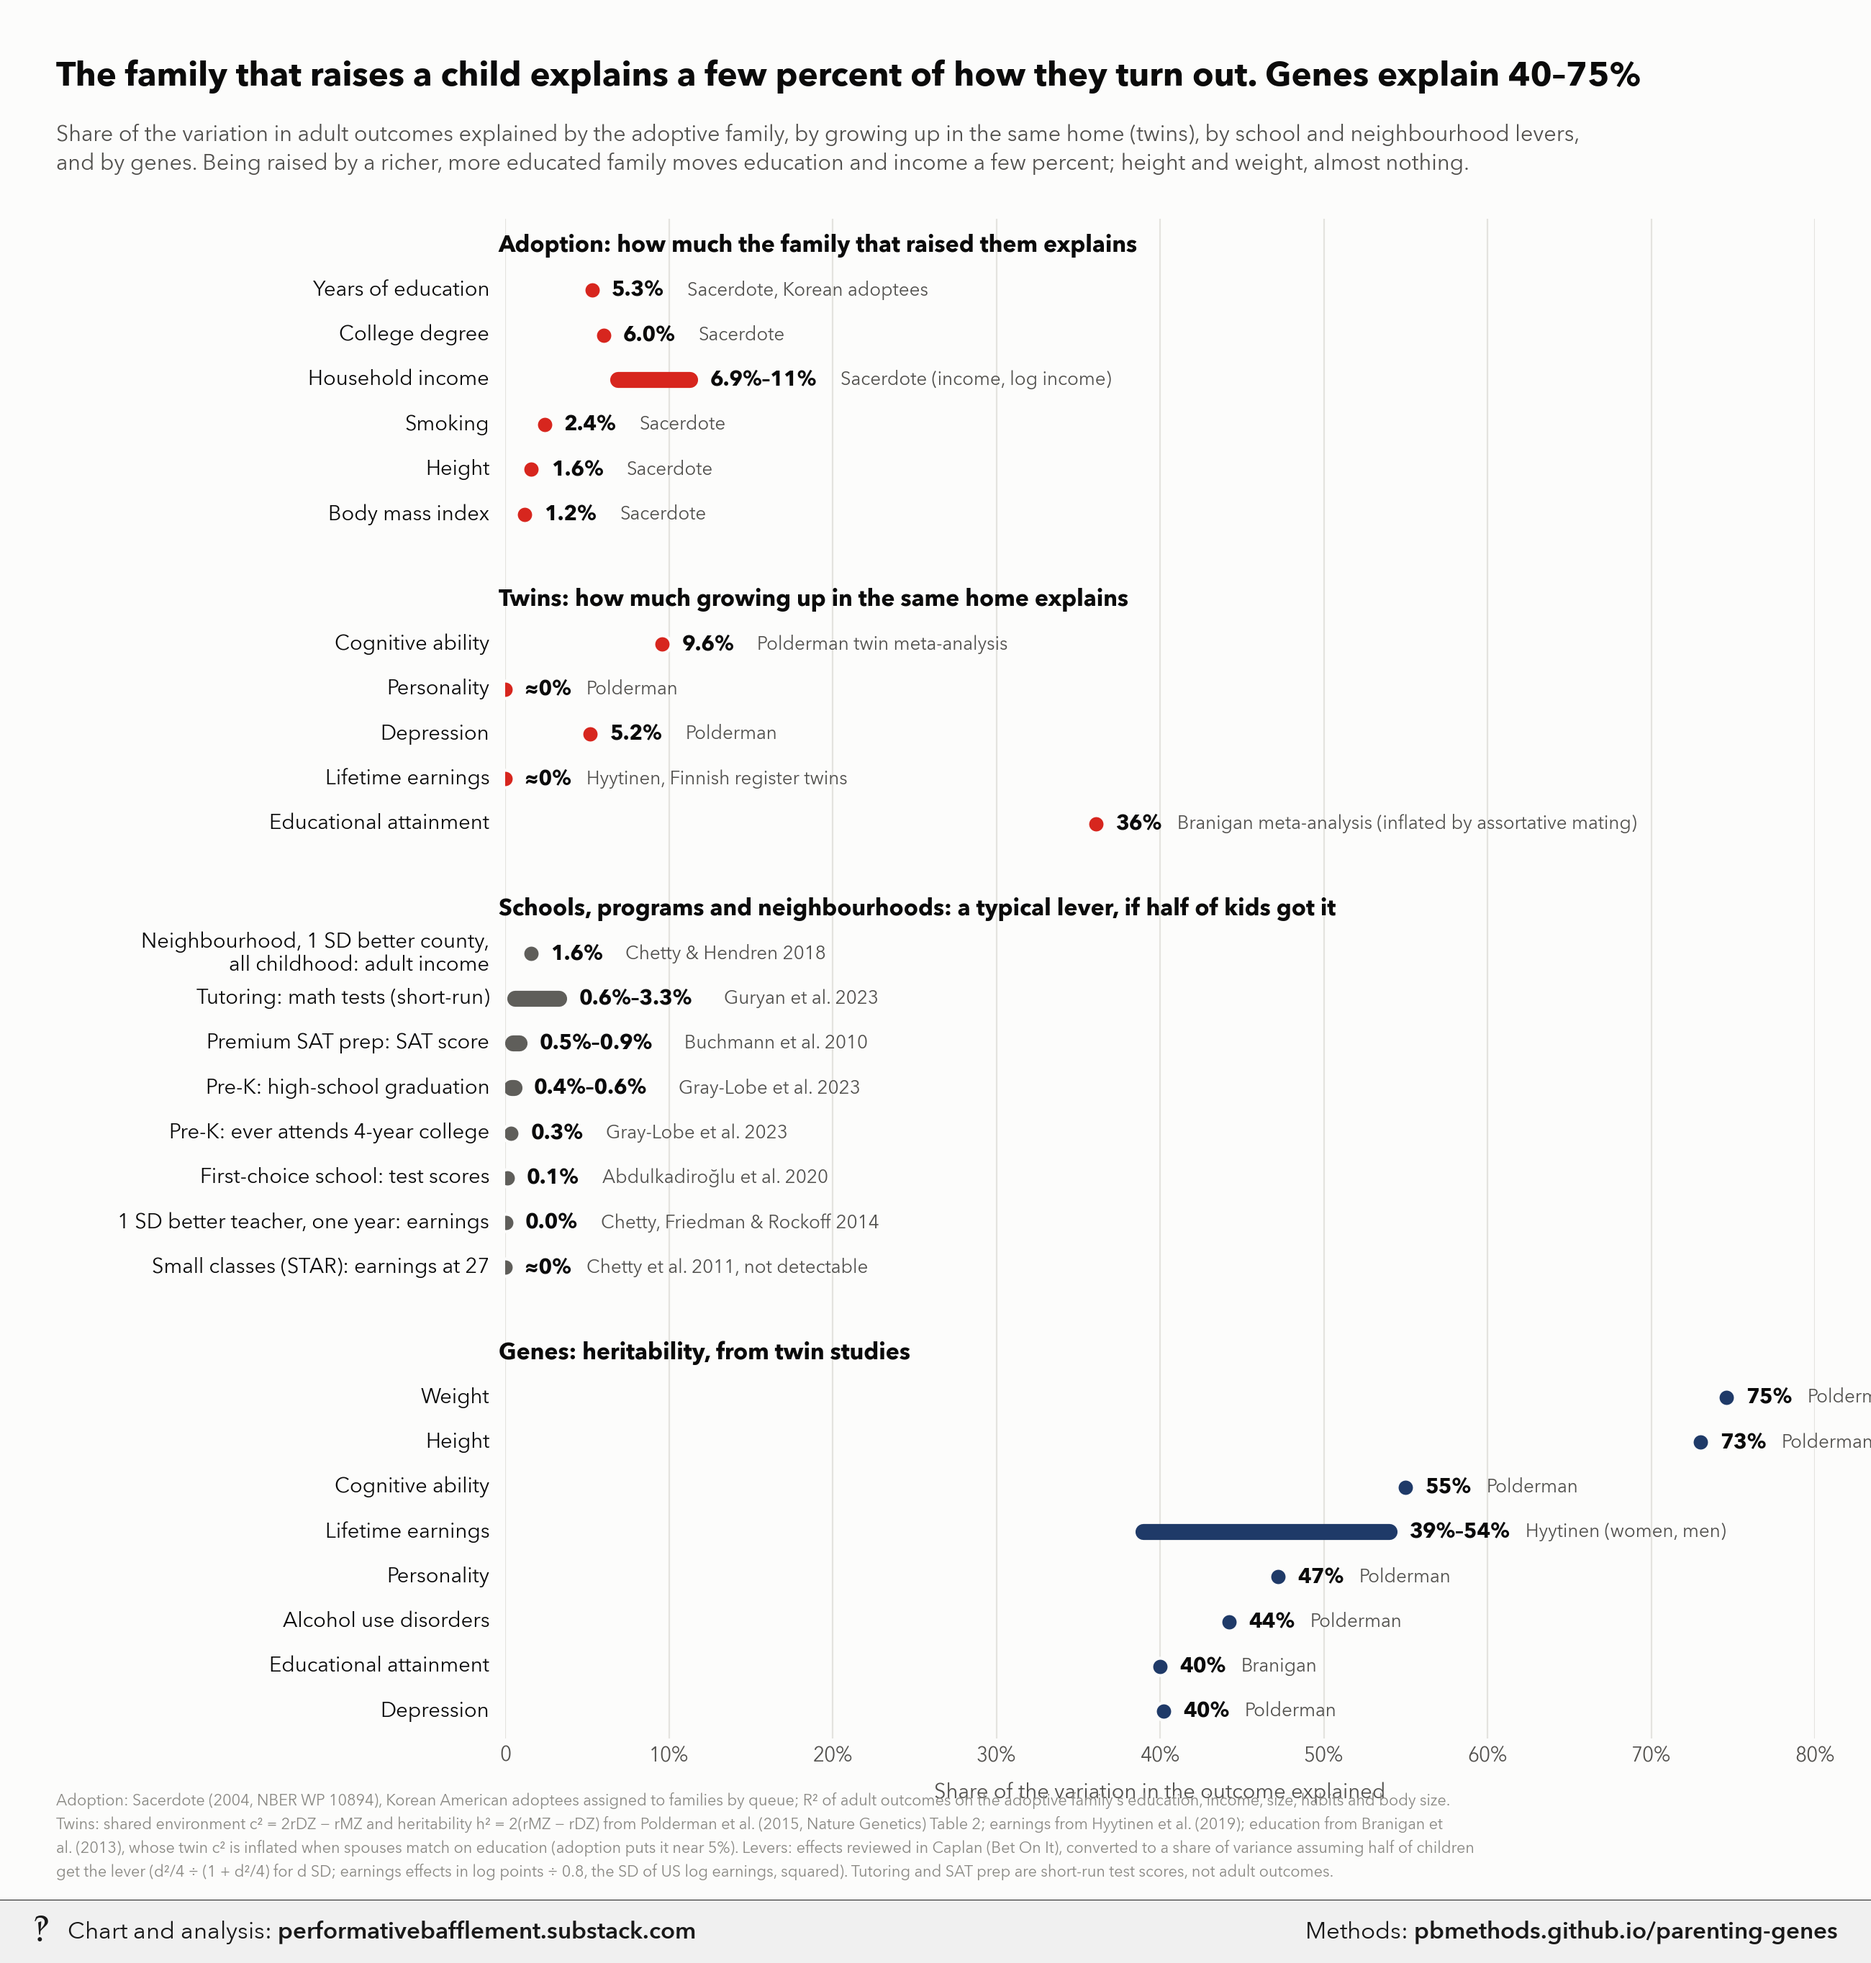
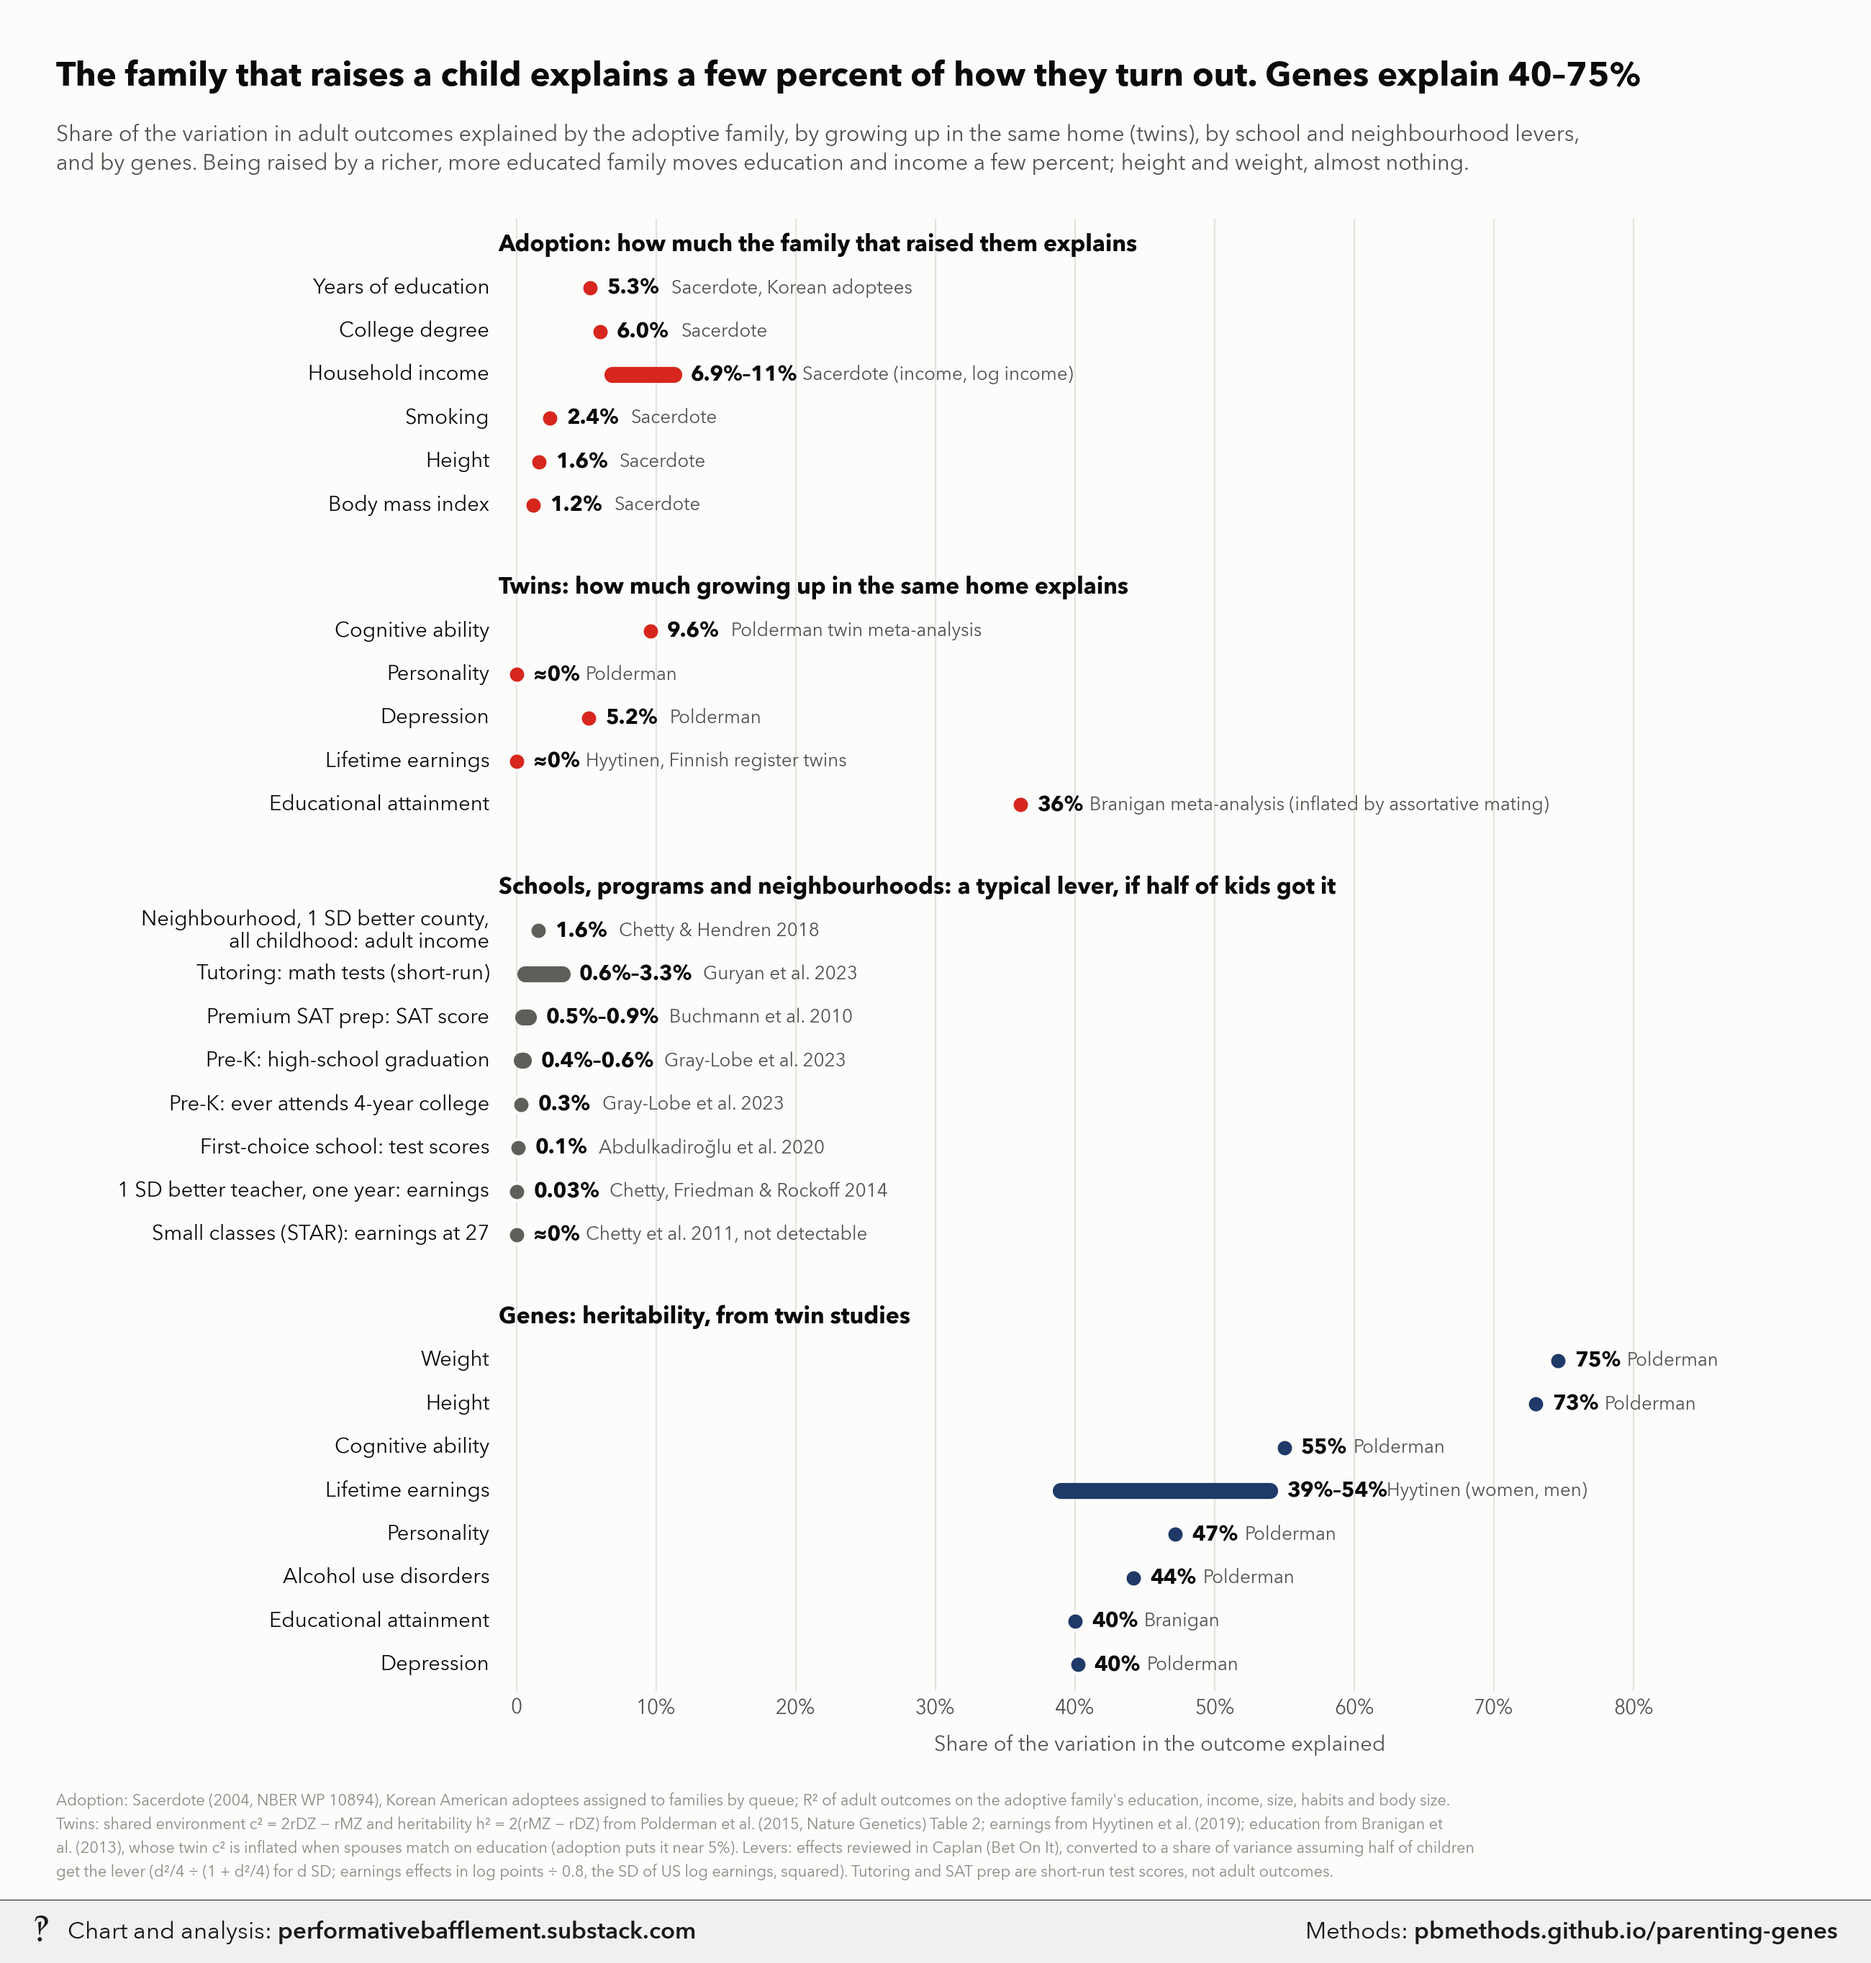
Update parenting-genes

diff --git a/parenting-genes/index.html b/parenting-genes/index.html
@@ -429,6 +429,8 @@ GROUPS = {
 def pct(v):
     if v == 0:
         return &quot;≈0%&quot;
+    if v &lt; 0.001:
+        return f&quot;{v * 100:.2f}%&quot;
     return f&quot;{v * 100:.1f}%&quot; if v &lt; 0.1 else f&quot;{v * 100:.0f}%&quot;
 
 
@@ -438,7 +440,7 @@ def main():
                                                                 float_format=&quot;%.4f&quot;)
 
     fig, ax = plt.subplots(figsize=(13, 13.2))
-    fig.subplots_adjust(left=0.27, right=0.97, top=0.885, bottom=0.085)
+    fig.subplots_adjust(left=0.27, right=0.97, top=0.885, bottom=0.11)
     y, prev = 0.0, None
     for r in df.itertuples():
         col, head = GROUPS[r.group]
@@ -462,7 +464,7 @@ def main():
         y += 1
     ax.set_ylim(y - 0.4, -0.6)
     ax.set_yticks([])
-    ax.set_xlim(0, 0.8)
+    ax.set_xlim(-0.008, 0.93)
     ax.set_xticks([0, .1, .2, .3, .4, .5, .6, .7, .8])
     ax.set_xticklabels([&quot;0&quot;, &quot;10%&quot;, &quot;20%&quot;, &quot;30%&quot;, &quot;40%&quot;, &quot;50%&quot;, &quot;60%&quot;, &quot;70%&quot;, &quot;80%&quot;], fontsize=10)
     ax.xaxis.grid(True, color=GRID, linewidth=0.8)

diff --git a/parenting-genes/methods.md b/parenting-genes/methods.md
@@ -247,6 +247,8 @@ GROUPS = {
 def pct(v):
     if v == 0:
         return "≈0%"
+    if v < 0.001:
+        return f"{v * 100:.2f}%"
     return f"{v * 100:.1f}%" if v < 0.1 else f"{v * 100:.0f}%"
 
 
@@ -256,7 +258,7 @@ def main():
                                                                 float_format="%.4f")
 
     fig, ax = plt.subplots(figsize=(13, 13.2))
-    fig.subplots_adjust(left=0.27, right=0.97, top=0.885, bottom=0.085)
+    fig.subplots_adjust(left=0.27, right=0.97, top=0.885, bottom=0.11)
     y, prev = 0.0, None
     for r in df.itertuples():
         col, head = GROUPS[r.group]
@@ -280,7 +282,7 @@ def main():
         y += 1
     ax.set_ylim(y - 0.4, -0.6)
     ax.set_yticks([])
-    ax.set_xlim(0, 0.8)
+    ax.set_xlim(-0.008, 0.93)
     ax.set_xticks([0, .1, .2, .3, .4, .5, .6, .7, .8])
     ax.set_xticklabels(["0", "10%", "20%", "30%", "40%", "50%", "60%", "70%", "80%"], fontsize=10)
     ax.xaxis.grid(True, color=GRID, linewidth=0.8)
